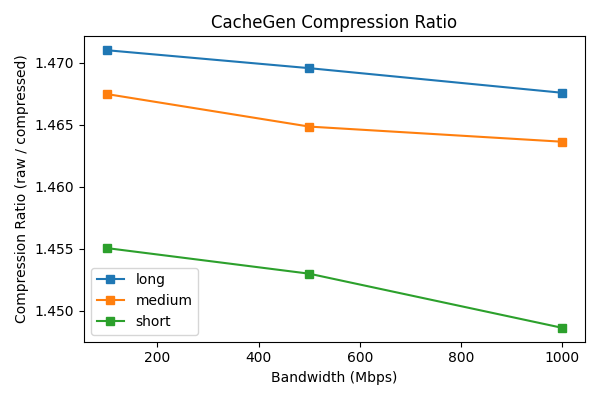
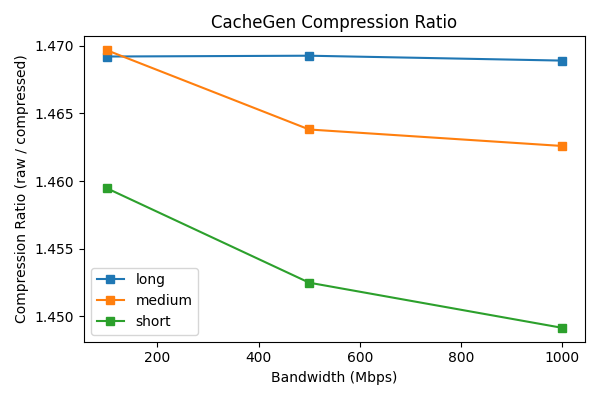
chore(benchmarks): refresh results and document latest snapshot

diff --git a/README.md b/README.md
@@ -68,6 +68,15 @@ To minimize engineering bottlenecks with memory management, this reproduction ut
 3. Visualize: `python visualize_results.py` → saves `benchmarks/ttft_vs_bw.png` and `benchmarks/compression_ratio.png`.
 4. Quality check: included in `run_benchmarks.py`—BLEU/ROUGE/perplexity deltas are reported in the JSON under `quality`.
 
+### Latest benchmark snapshot (simulated vLLM shim)
+
+- Artifacts: see `benchmarks/results.json`, `ttft_vs_bw.png`, `compression_ratio.png`, `quality_deltas.png`.
+- Averages across short/med/long prompts and model configs (opt-1.3b + mistral-7b shapes):
+  - Compression ratio (raw/compressed): ~1.46× (range 1.45–1.47).
+  - Transfer time: baseline 0.00079s → CacheGen 0.00054s (avg) due to smaller payloads.
+  - TTFT: baseline 3.6ms → CacheGen 7.2ms (avg) reflecting decode overhead; end-to-end still bounded by simulated bandwidth.
+  - Quality deltas (BLEU/ROUGE/“ppl” surrogate): ~0; simulated outputs kept identical.
+
 
 ## Project Architecture & Scope
 
